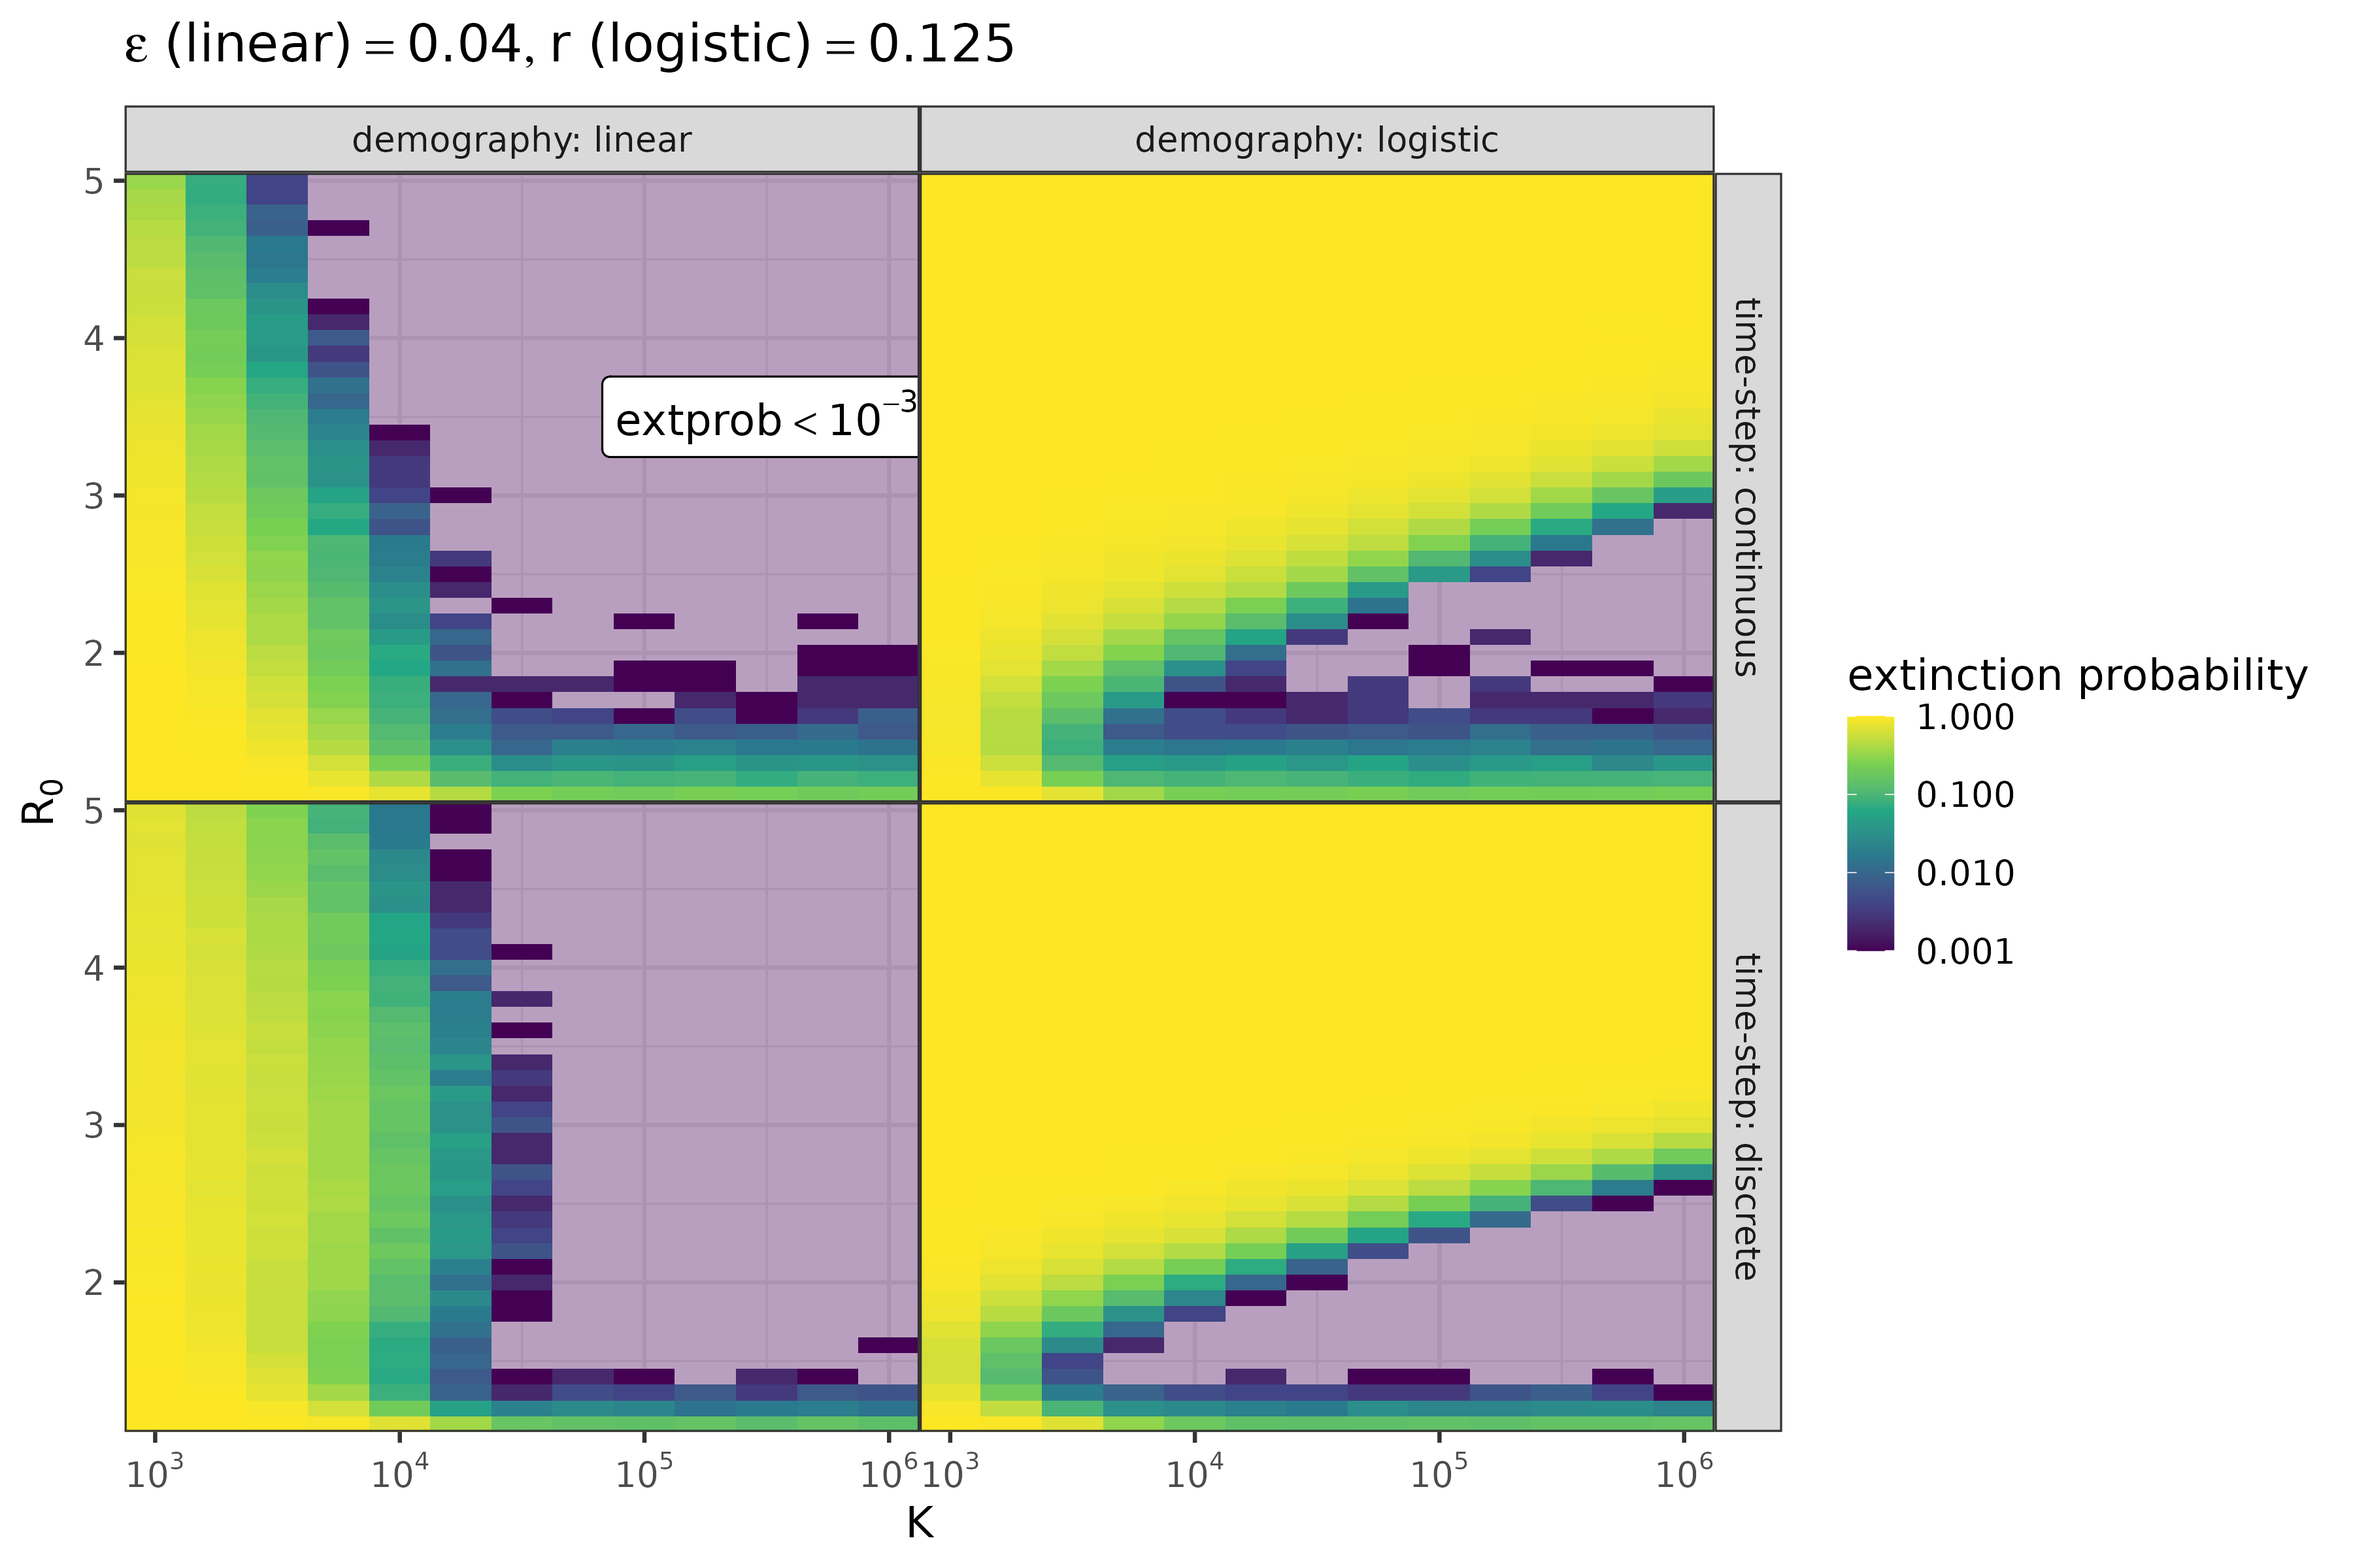
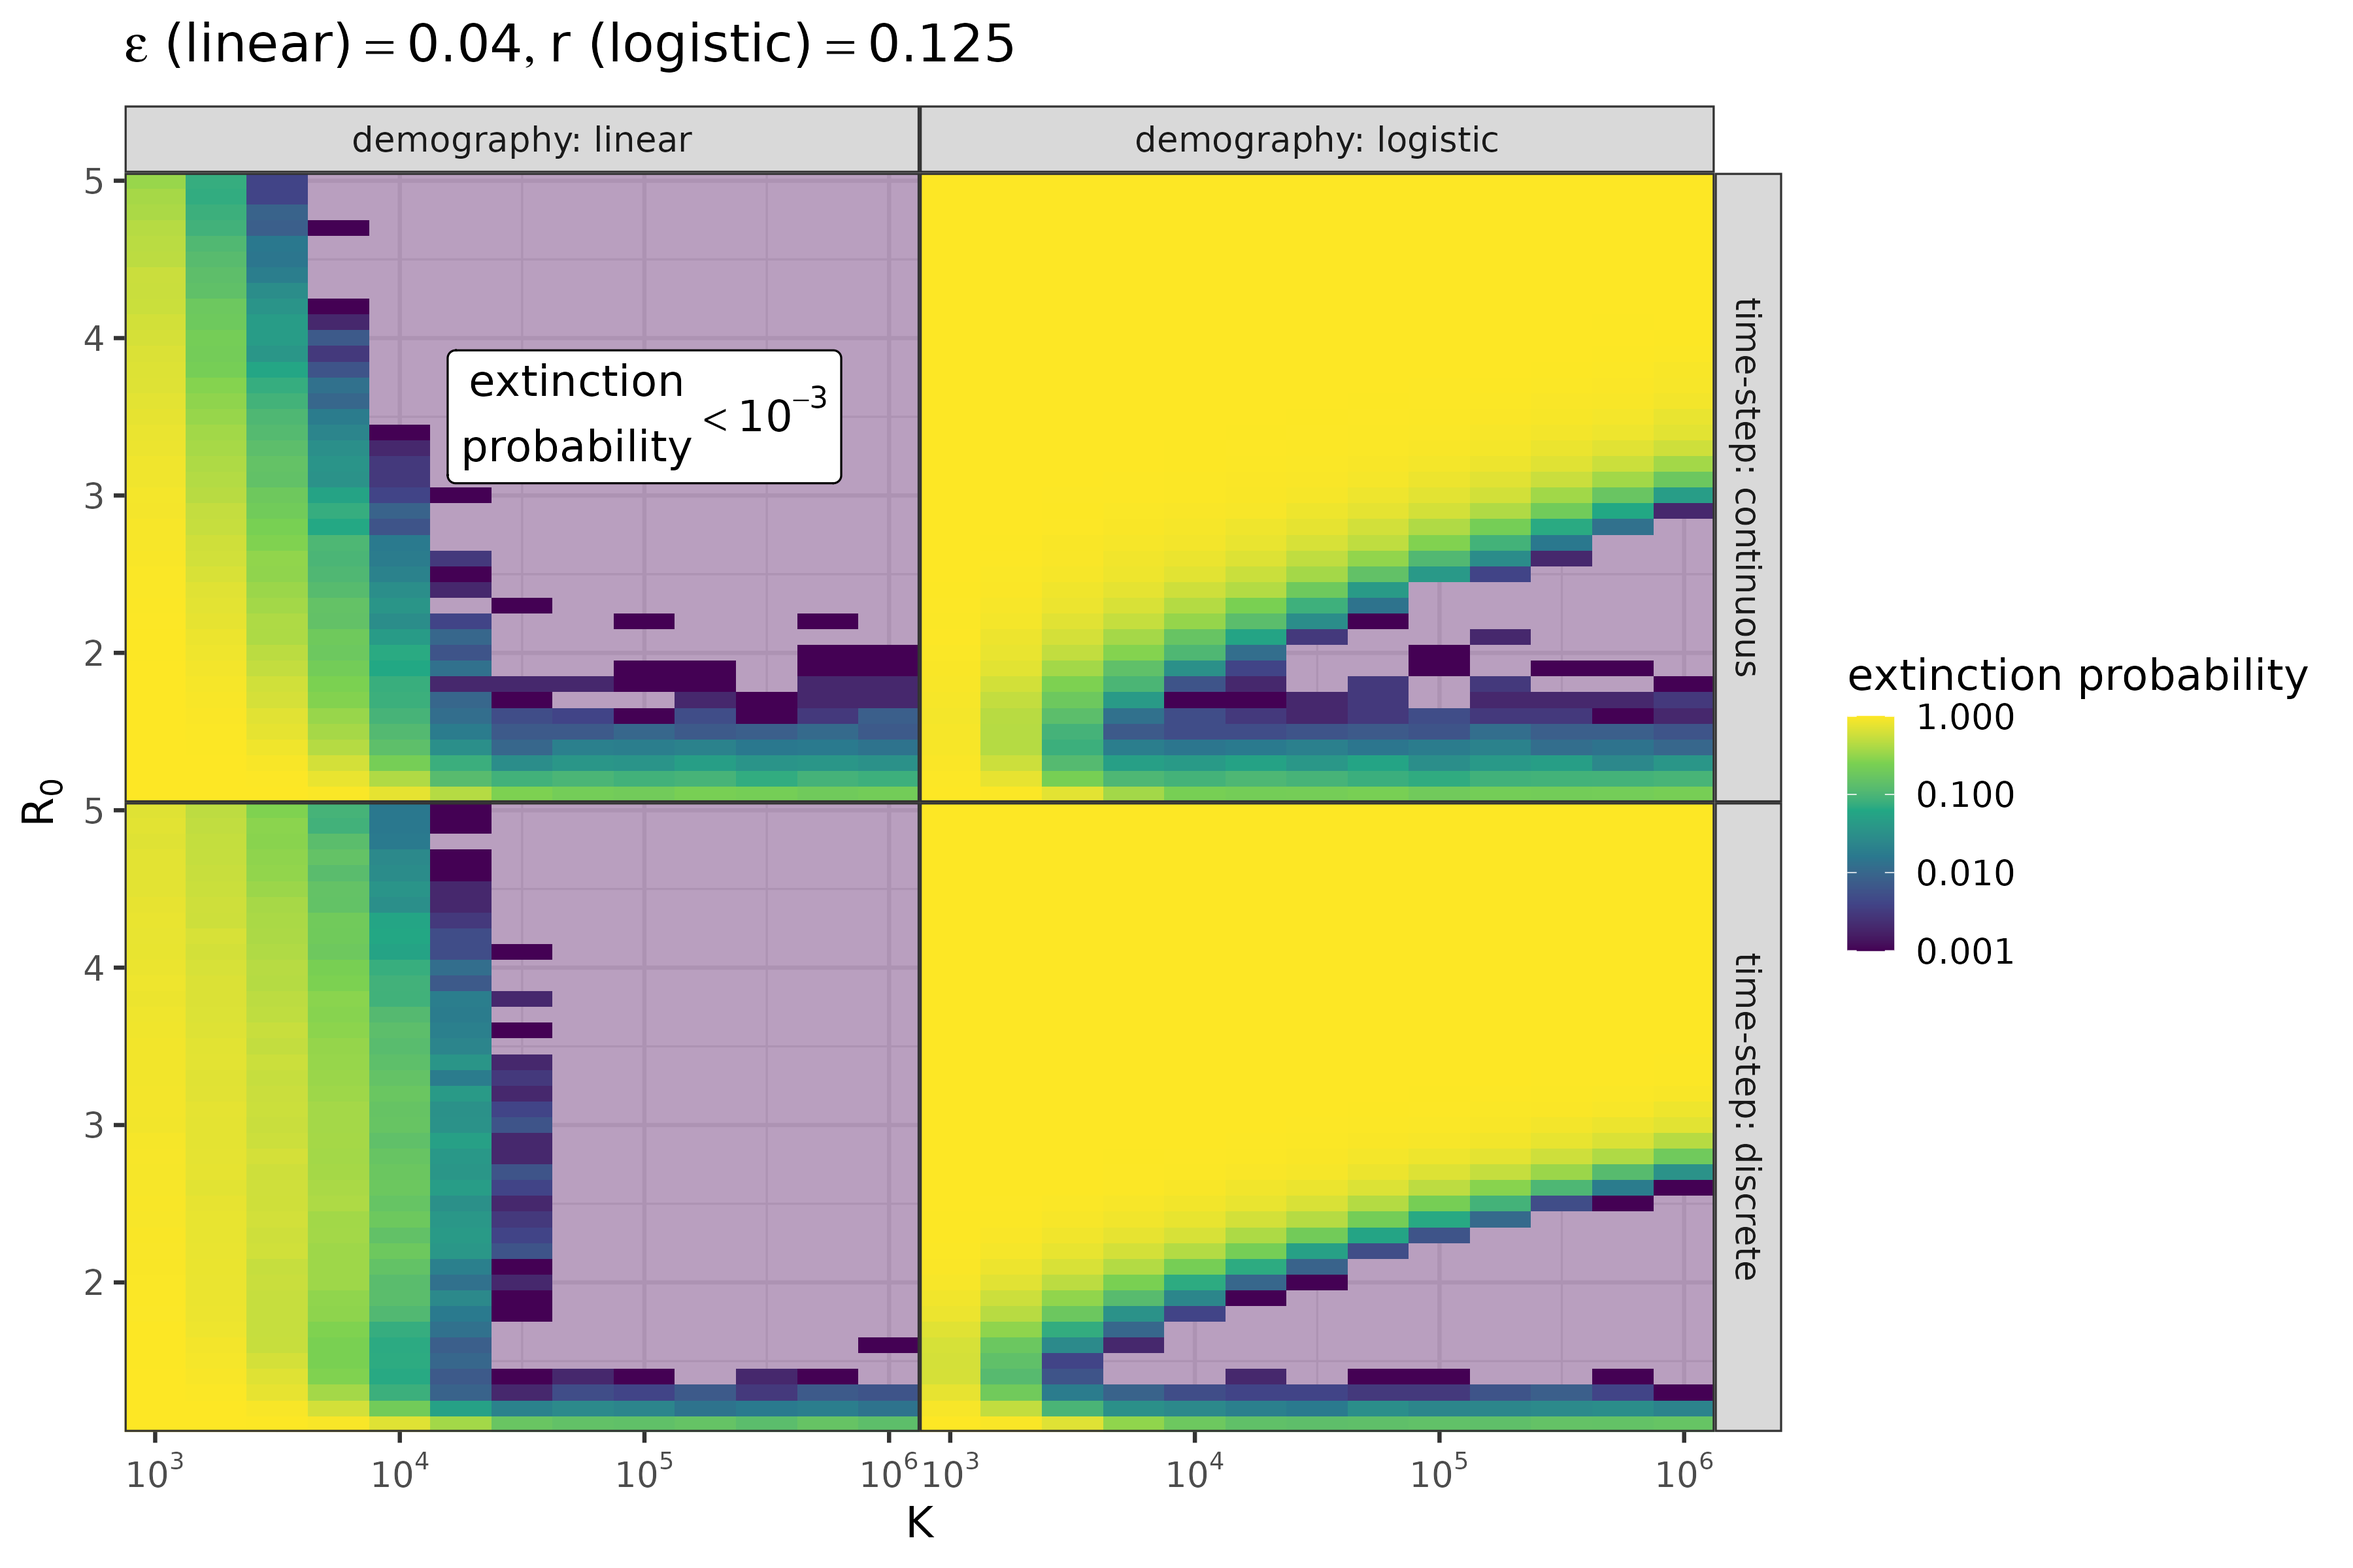
SSC talk, TODO

Changed region(s): [[0.1867, 0.2188, 0.4044, 0.3125]]

diff --git a/metapop/TODO.md b/metapop/TODO.md
@@ -1,42 +1,32 @@
 ## To do
 
 * direct solution of deterministic metapop model??? does it collapse?
-* plot PIPs
-* finish equalN plot
-* 3d: ?? (too hard)
-
-* refactor twostrain delay to be part of discrete_run (chunked run), rather than part of model definition
-
-* trouble-shoot PIP runs
-   * retrieve two-strain mini example.
-   * strain 2 is always going extinct in the mini-example. Is that expected?
-
+* PIP runs for longer than 100+100 generations?
 * odin ODE version; quantify trough depth vs R0 for leaky-bucket vs logistic demography
 * implement non-extinction variant, compare with extinction-allowed (strength of burnout mechanism)
 * implement power-law R0(N) ?
+* think about an invasibility expression: if we know patch occupancy and S/I distributions of resident, can we calculate invasion, or do extinction dynamics etc. make expectations of instantaneous growth rate irrelevant?
+* sensitivity to $r$?
 
+### code
+
+* refactor two-strain delay to be part of discrete_run (chunked run), rather than part of model definition
 * prototype and benchmark hybrid deterministic (above threshold)/stochastic (below threshold) model
 * create dedicated single-strain model (doesn't help that much)
-
+* instrument runs to record r(t), foi(t), etc. (to understand invasion criteria etc.)
+* store parameter values as attributes
+* makestuff/shellpipes?
+   * sort out working-directory stuff (package??)
+   * interference between shellpipes/makestuff and command-line args?
+* profiling macpan2 runner
+* lay out/test mechanisms: dens-indep R0, fixed N, extinction-independent ... ?
+* better stochastic (+/-) dynamics (cleaner, avoid clamping in macpan2)
 
 Note effects of [1] generation interval/infectious period distribution; [2] demography (SIR w/ constant (leaky-bucket) vital dynamics vs SIRS vs SID w/ logistic growth) [3] ??
 
   Chose r=0.125 on the basis of intrinsic rat pop growth rates of 3-5/year; generation time of plague 10-20 days; `3/365*15 ~ 0.125`.
 
   Linear growth rate would be equal to death rate, in disease generation times (== epsilon); death rate is about 1 (lifespan == 1 year), so approx 1/3 of r == 0.04 (maybe less, 15 is on the high end)
-
-* instrument runs to record r(t), foi(t), etc. (to understand invasion criteria etc.)
-* store parameter values as attributes
-* makestuff/shellpipes?
-   * sort out working-directory stuff (package??)
-   * interference between shellpipes/makestuff and command-line args?
-* summary info:
-    * n occupied, quasi-eq, etc.
-    * YZ PIP invasion characteristics
-* profiling macpan2 runner
-* lay out/test mechanisms: dens-indep R0, fixed N, extinction-independent ... ?
-* invasibility equations
-* better stochastic (+/-) dynamics (cleaner, avoid clamping in macpan2)
 
 ## old
 
